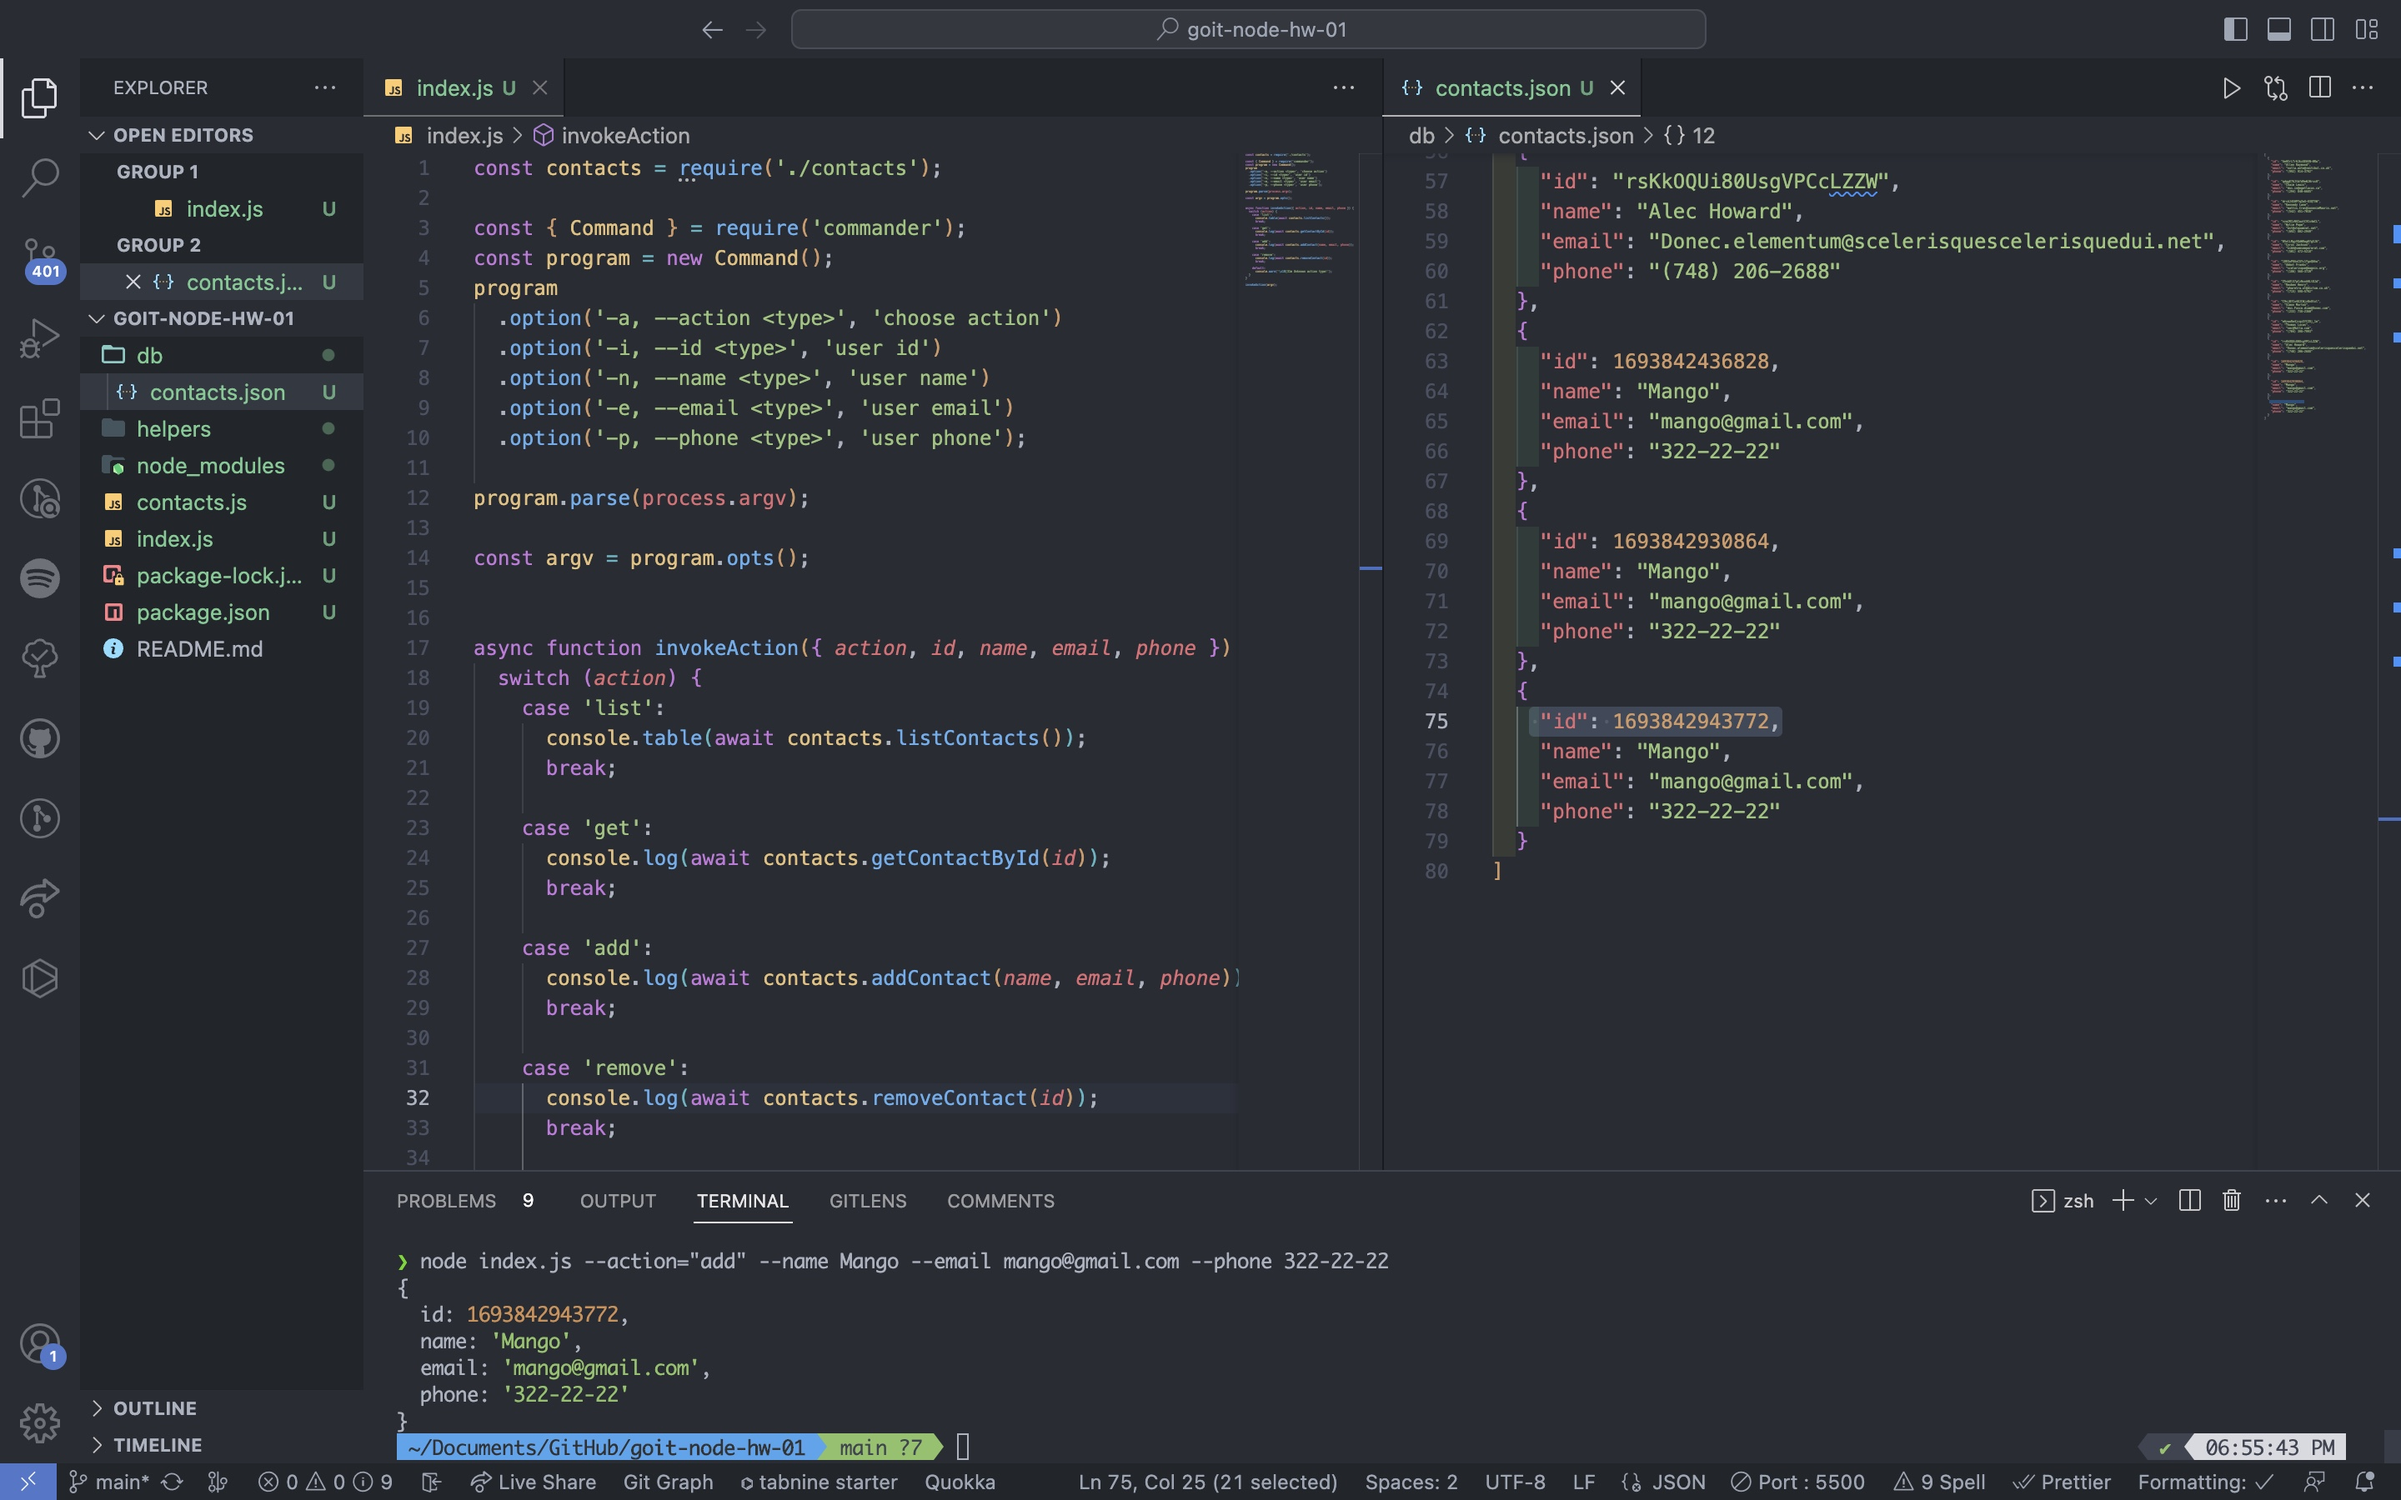
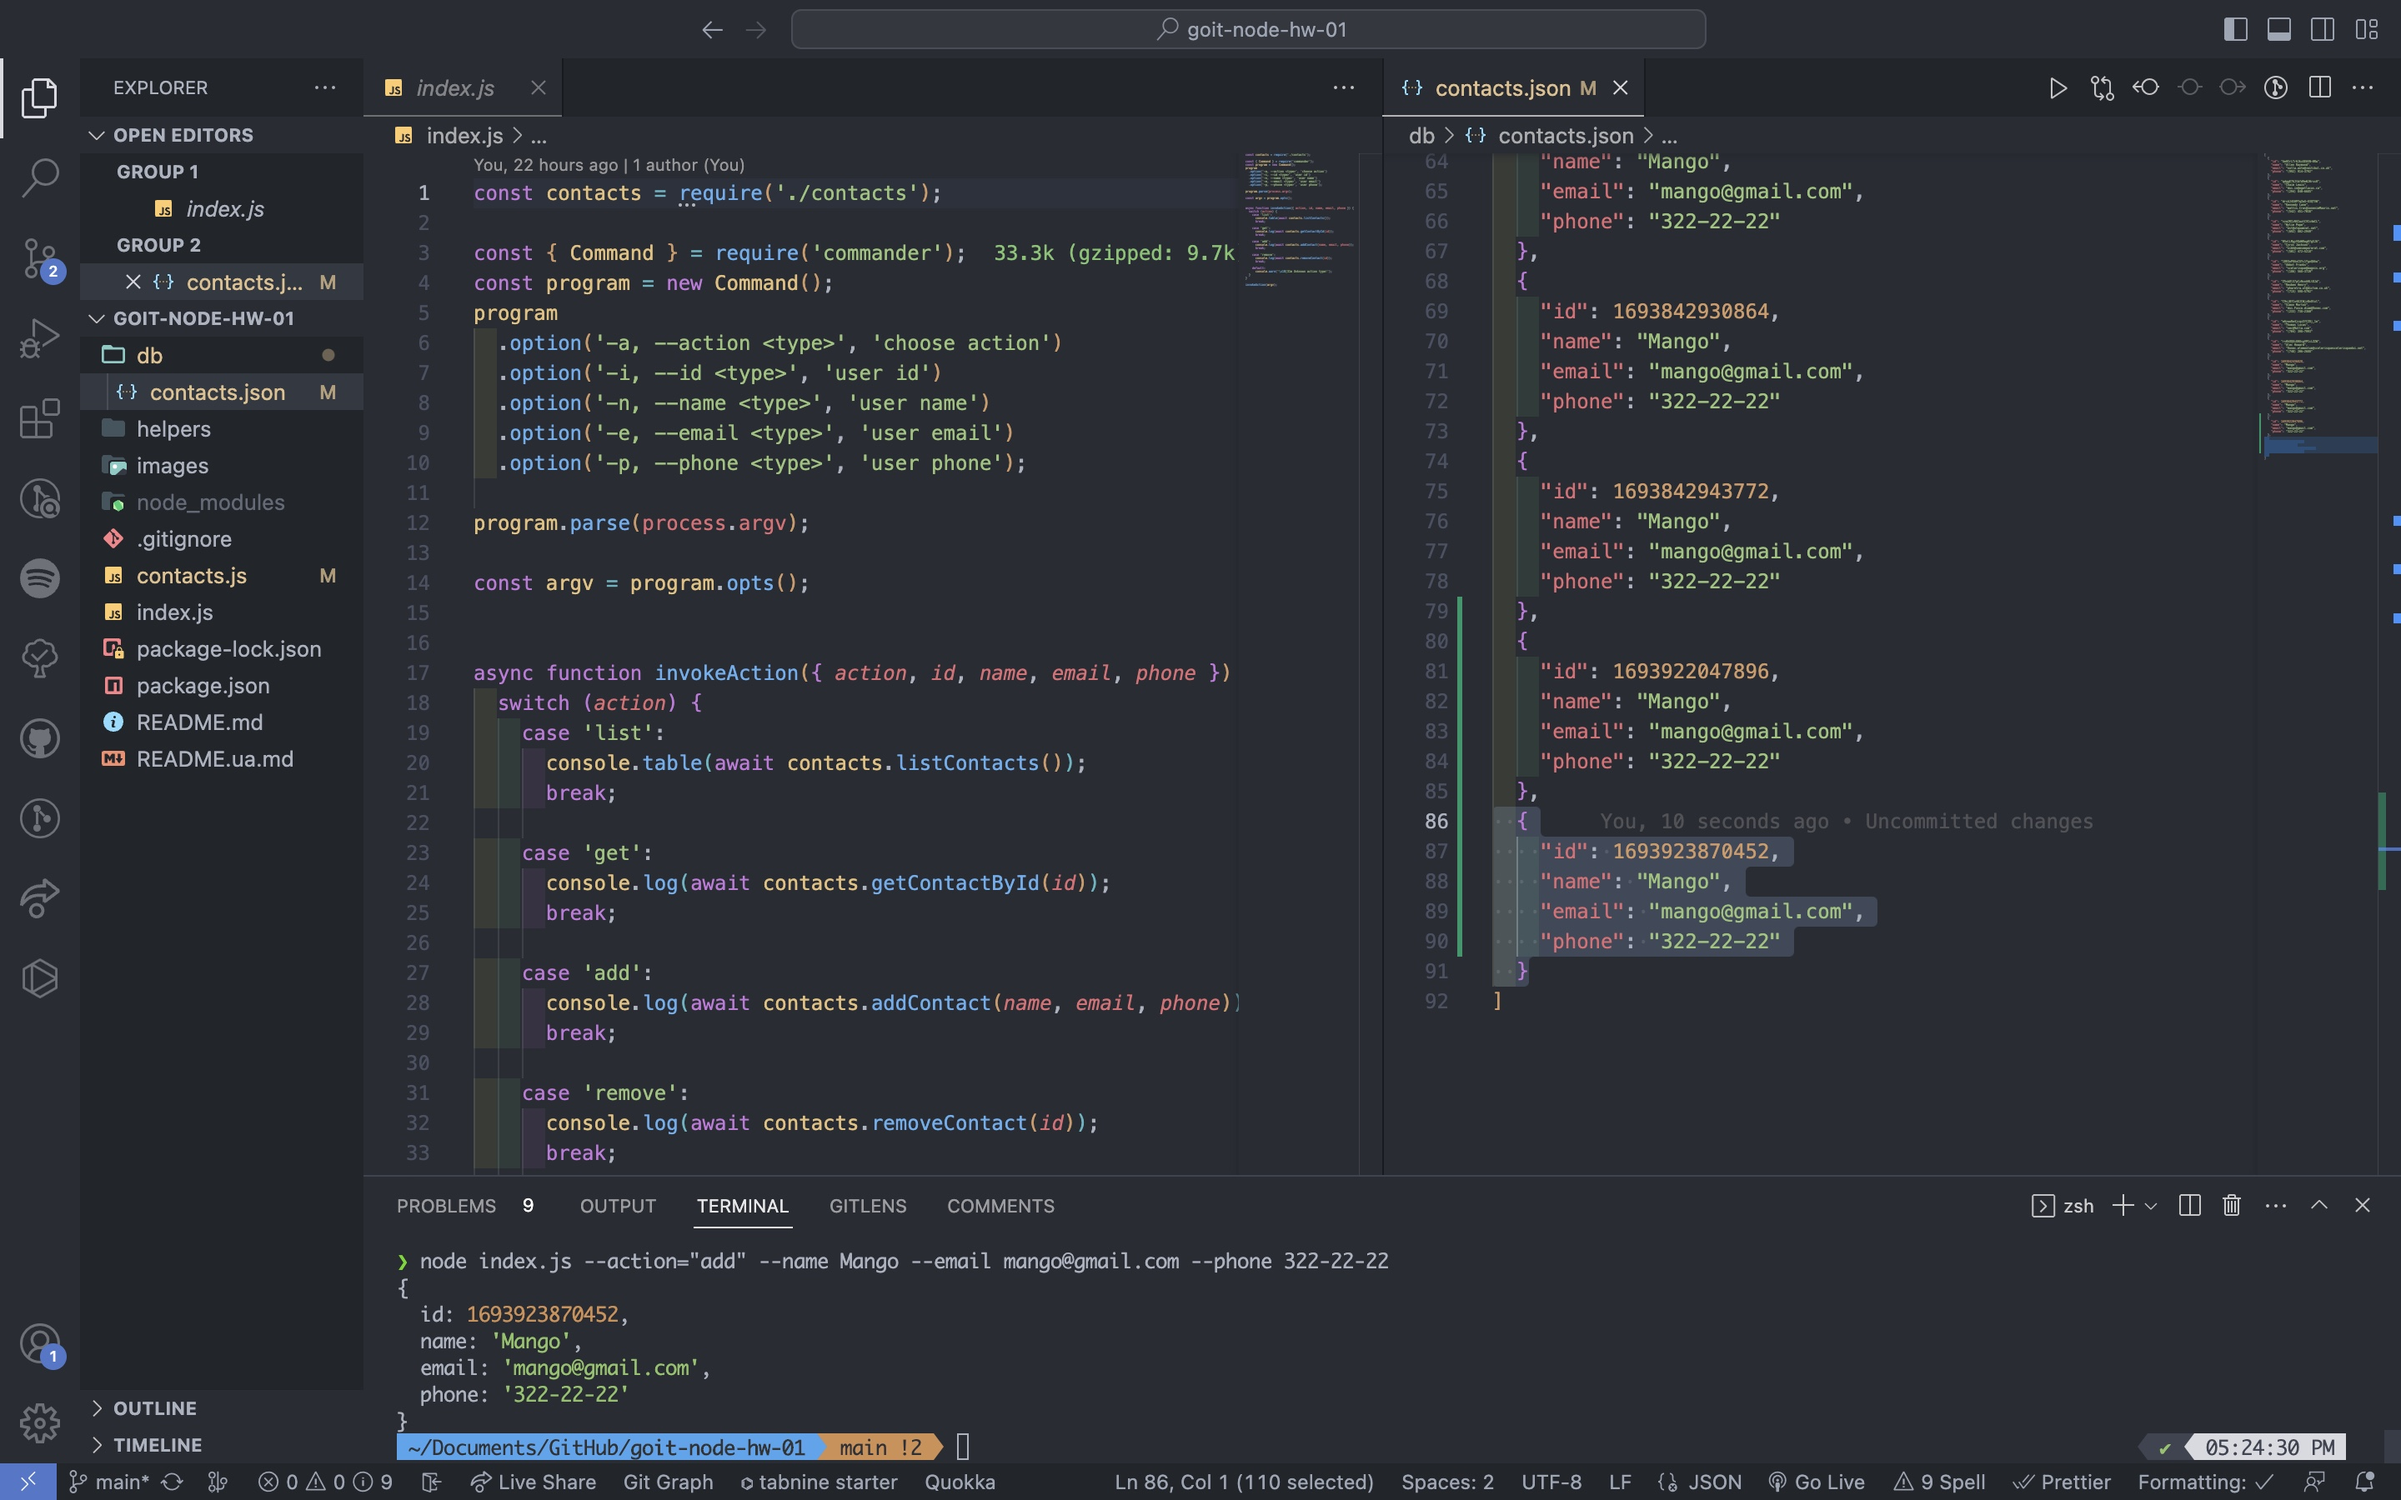
add files

diff --git a/contacts.js b/contacts.js
@@ -34,7 +34,7 @@ async function removeContact(contactId) {
         if(!removedContact) {
             return null;
         }
-        const updatedContact = contacts.filter(contact => contact.id !== contact);
+        const updatedContact = contacts.filter(contact => contact.id !== contactId);
         await fs.writeFile(contactsPath, JSON.stringify(updatedContact, null, 2));
         return removedContact;
     }

diff --git a/README.md b/README.md
@@ -1,13 +1,13 @@
 # goit-node-hw-01
 
 # Отримуємо і виводимо весь список контактів у вигляді таблиці (console.table)
-![Alt text](https://i.ibb.co/dJ8LQPk/get-All-jpg.jpg)
+![Alt text](https://i.ibb.co/q53srx0/getAll.jpg)
 
 # Отримуємо контакт по id і виводимо у консоль об'єкт контакту або null, якщо контакту з таким id не існує.
-![Alt text](https://i.ibb.co/pzM0rKR/get-By-Id-jpg.jpg)
+![Alt text](https://i.ibb.co/Wp6mYNt/getById.jpg)
 
 # Додаємо контакт та виводимо в консоль об'єкт новоствореного контакту
-![Alt text](https://i.ibb.co/XJj2Qw0/add-jpg.jpg)
+![Alt text](https://i.ibb.co/9gxB5Dg/add.jpg)
 
 # Видаляємо контакт та виводимо в консоль об'єкт видаленого контакту або null, якщо контакту з таким id не існує.
-![Alt text](https://i.ibb.co/1rTMxL6/remove-jpg.jpg)
+![Alt text](https://i.ibb.co/HdkchPc/remove.jpg)
